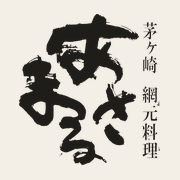
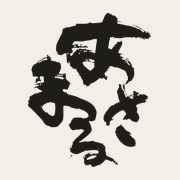
faviconを筆文字だけに（縦書きは小サイズで潰れるため落とす）

Changed region(s): [[0.0833, 0.0556, 0.8889, 0.9444]]

diff --git a/DESIGN.md b/DESIGN.md
@@ -29,7 +29,7 @@
 |---|---|---|
 | `images/logo-mark-paper.png` | 筆文字「あさまる」＋縦書き「茅ヶ崎 網元料理」を**生成り色**で透過抜き | 大きなのれん |
 | `images/logo-mark-ink.png` | 同じものを**墨色**で | フッター |
-| `images/favicon.png` `apple-touch-icon.png` `icon-512.png` | 生成り地に墨のマーク | タブ・ホーム画面 |
+| `images/favicon.png` `apple-touch-icon.png` `icon-512.png` | 生成り地に墨の**筆文字だけ**（縦書きは落とす＝小さいと潰れる） | タブ・ホーム画面 |
 | `images/ogp.jpg` | 墨地に生成りのマーク（1200×630） | SNSでURLを貼ったときの画像 |
 
 - 出処: **Instagram アイコンと同じ原画** `../assets/client_assets/logo_asamaru_original.jpg`（1170×1221・クライアント提供）。
